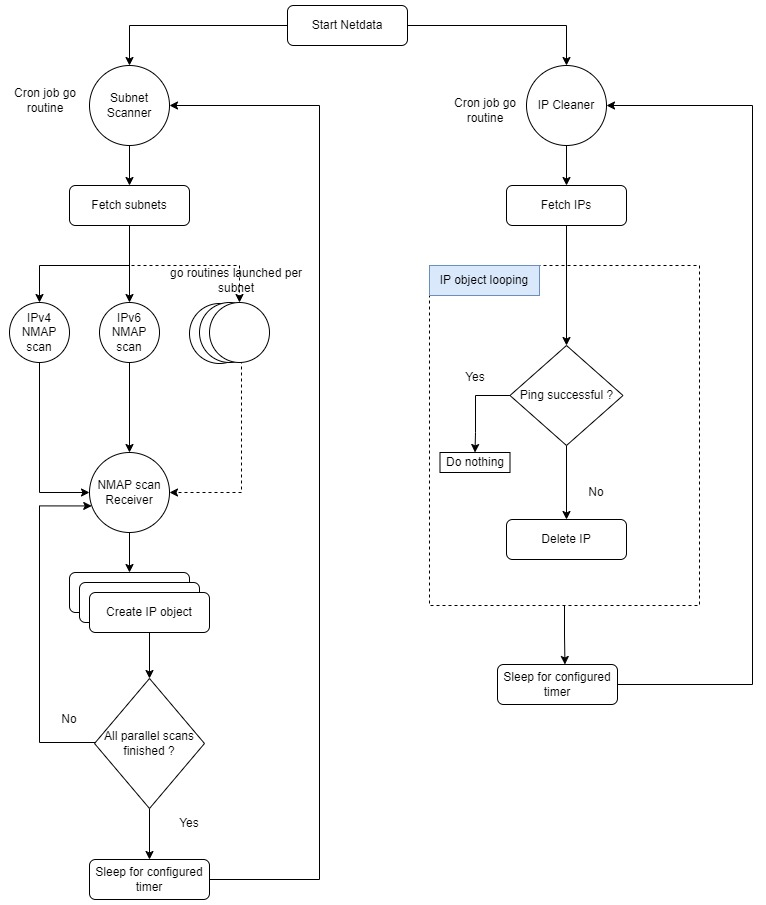
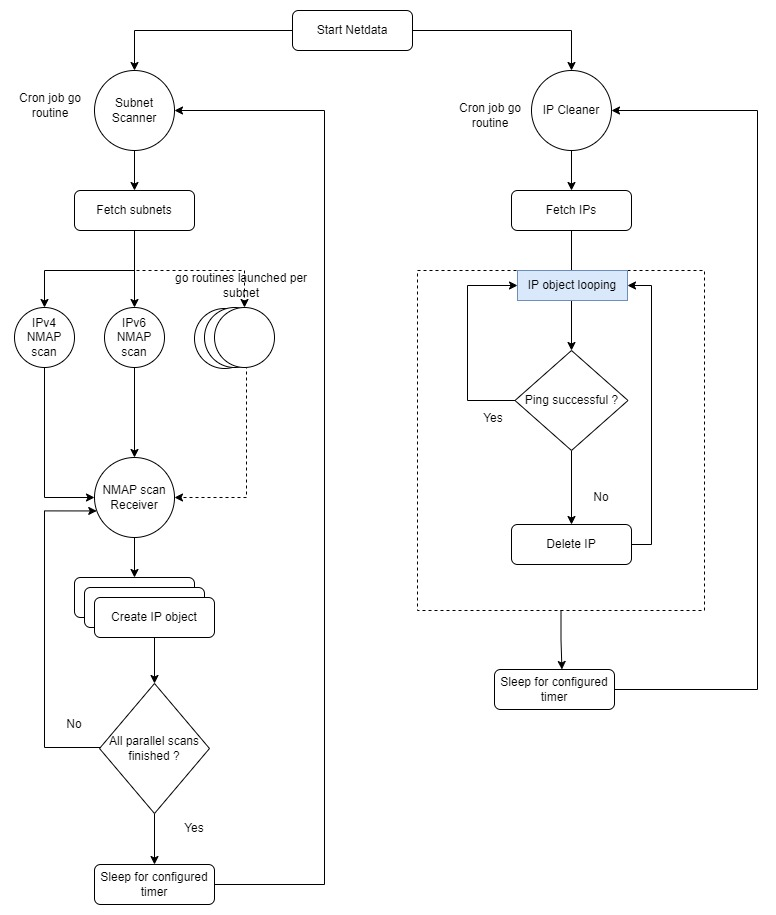
updated docs (#189)

diff --git a/README.md b/README.md
@@ -6,18 +6,21 @@
 The Netdata is an utility which scans or discovers the servers from the network by using NMAP protocol
 
 ### Subnet scan cron job
-1. In this cron job all subnets are fetched and scanned parallelly.
+1. In this cron job specific subnets are fetched which are having label 'labelsubnet'.
 2. The IPv4 subnet is scanned using ![golang nmap library](https://github.com/Ullaakut/nmap)
-3. The IPv6 subnet is scanned using the golang lib and a .nse script file present in the repository.
-4. Each NMAP scan is executed in parallel using go routines.
-5. The output received from a scan is processed to get the IP and MAC. Using an IP address and a MAC an IP object is created.
-6. The cron job is executed periodically using the configured interval from the config map.
+3. The IPv6 subnet is scanned using ![golang nmap library](https://github.com/Ullaakut/nmap) and a .nse script file present in the repository.
+4. All NMAP scans are executed in parallel using go routines.
+5. The output received from a scan is processed to get the IP and MAC.
+6. IP and MAC address got received from the NMAP scan is used to create the IP objects.
+7. The cron job is executed periodically using the configured interval from the config map.
 
 ### IP object Cleanup cron job
 1. In this cron job all IP objects are fetched from the k8s cluster.
-2. From the IP object an IP address is parsed and it is pinged. If the IP address is not reachable, it gets deleted after the retry mechanism.
-3. Nothing is done if the ping is successful.
-3. The cron job is executed periodically using the configured interval from the config map.
+2. Netdata maintains the local cache which holds the lastseen timestamp of IP objects.
+3. The pinger will only ping the IP object if the lastseen timestamp does not fall within the required range.
+4. If the ping is successful, it means the device is healty and we dont have to clean the IP object.
+5. If the IP address is not reachable, it gets deleted after the retry mechanism.
+6. The cron job is executed periodically using the configured interval from the config map.
 
 #### Workflow
 
